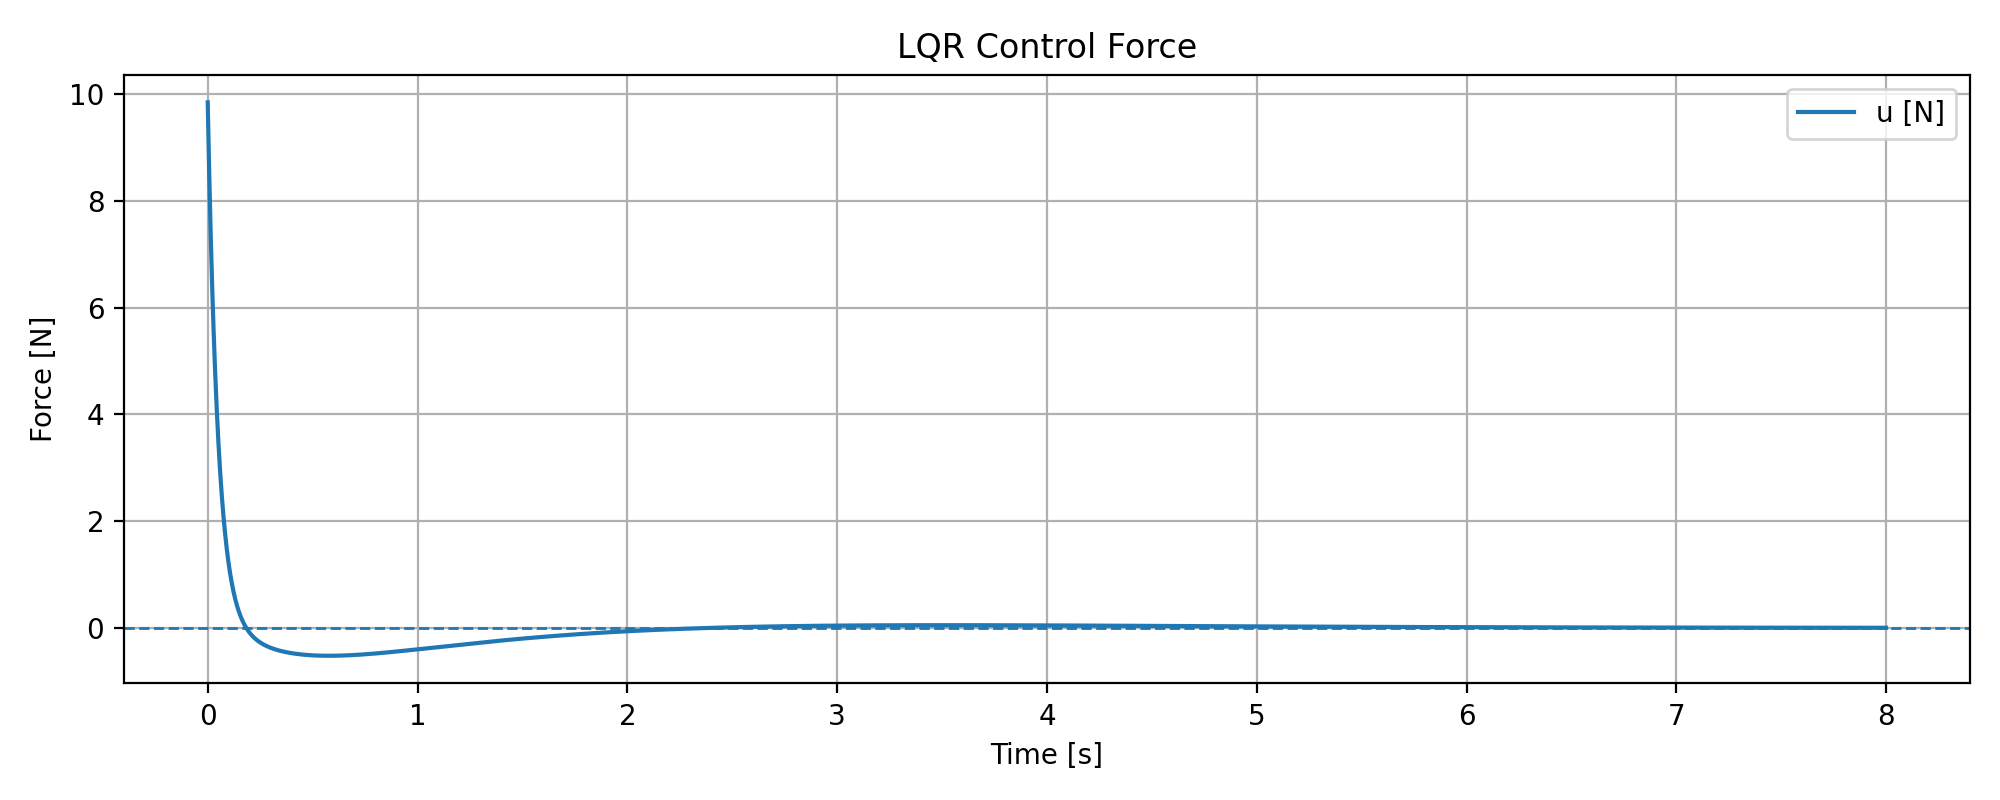
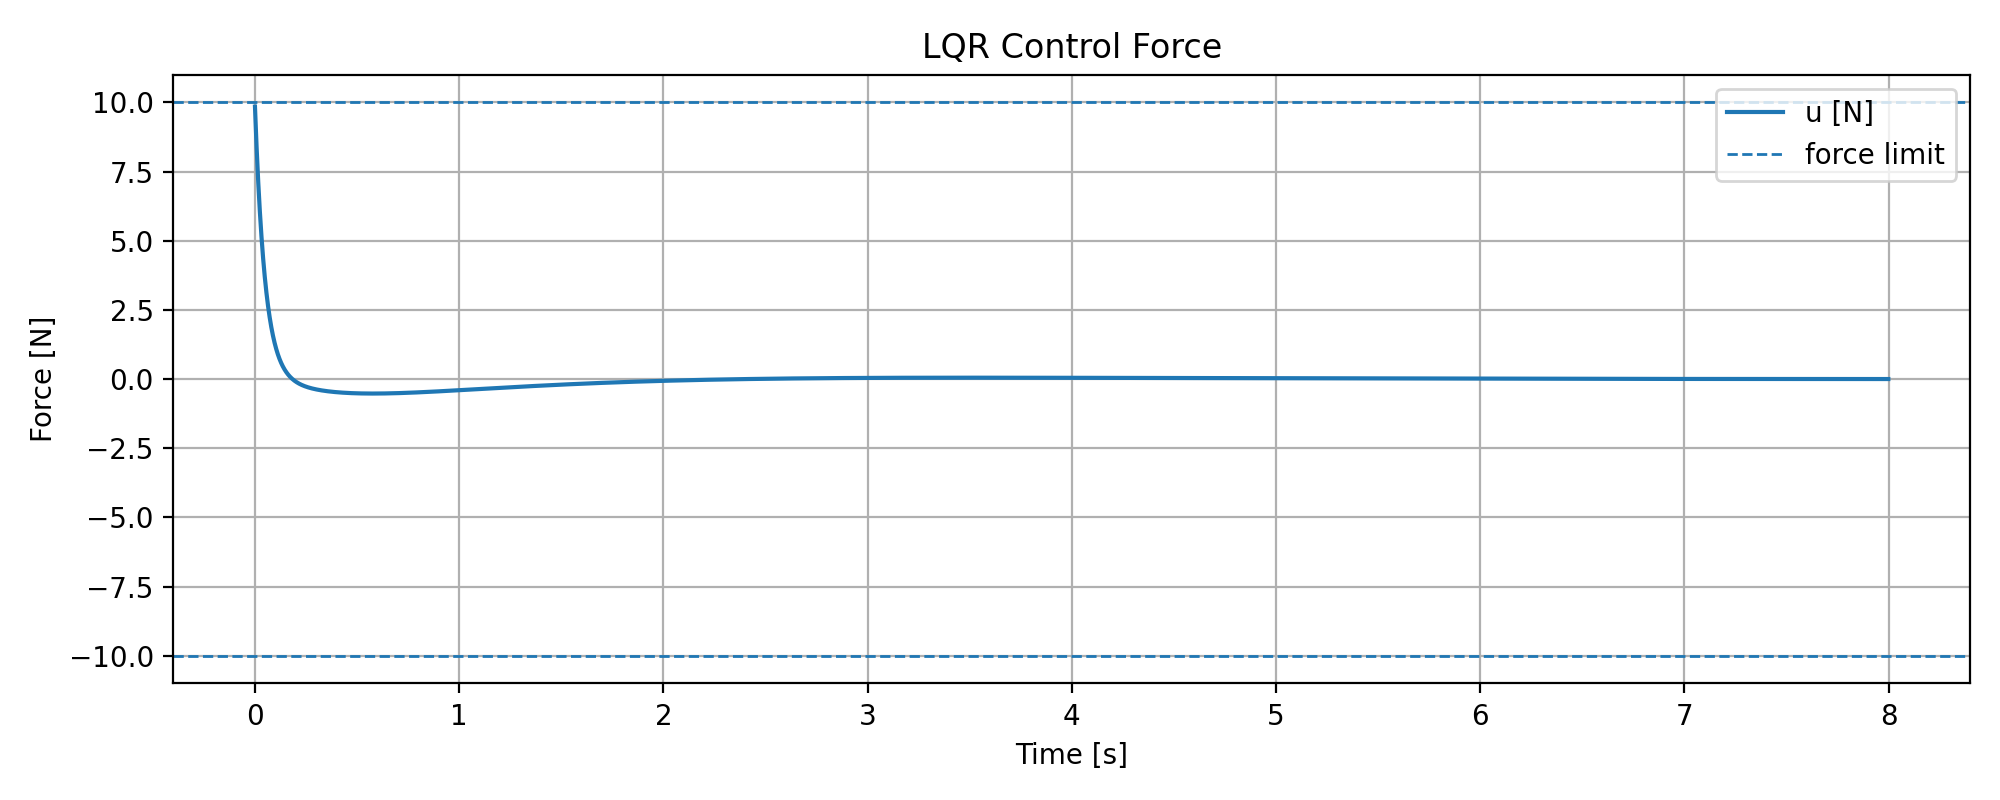
Add actuator saturation to cart-pole control

diff --git a/scripts/plot_results.py b/scripts/plot_results.py
@@ -44,7 +44,8 @@ plt.savefig("../data/pole_state_response.png", dpi=200)
 # -----------------------------
 plt.figure(figsize=(10, 4))
 plt.plot(t, u, label="u [N]")
-plt.axhline(0.0, linestyle="--", linewidth=1)
+plt.axhline(10.0, linestyle="--", linewidth=1, label="force limit")
+plt.axhline(-10.0, linestyle="--", linewidth=1)
 plt.title("LQR Control Force")
 plt.xlabel("Time [s]")
 plt.ylabel("Force [N]")

diff --git a/src/main.cpp b/src/main.cpp
@@ -1,6 +1,6 @@
 #include <iostream>
 #include <fstream>
-
+#include <algorithm>
 #include "CartPole.hpp"
 #include "LQR.hpp"
 
@@ -64,6 +64,9 @@ int main() {
         double time = i * dt;
 
         double u = -(K * state)(0);
+        // actuator saturation
+        const double u_max = 10.0;
+        u = std::clamp(u, -u_max, u_max);
 
         state = rk4Step(cartpole, state, u, dt);
 
